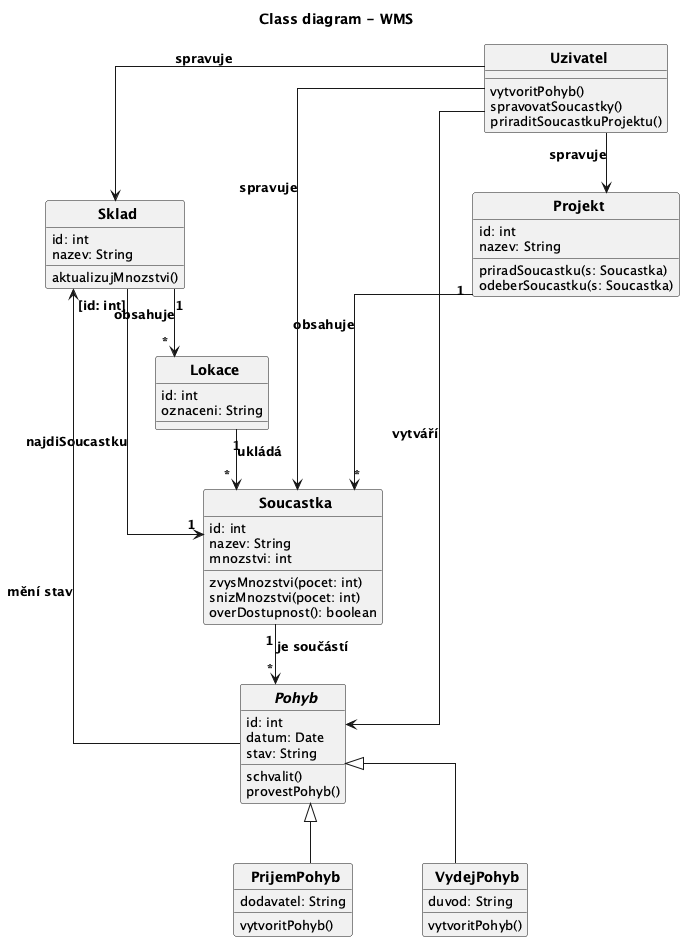
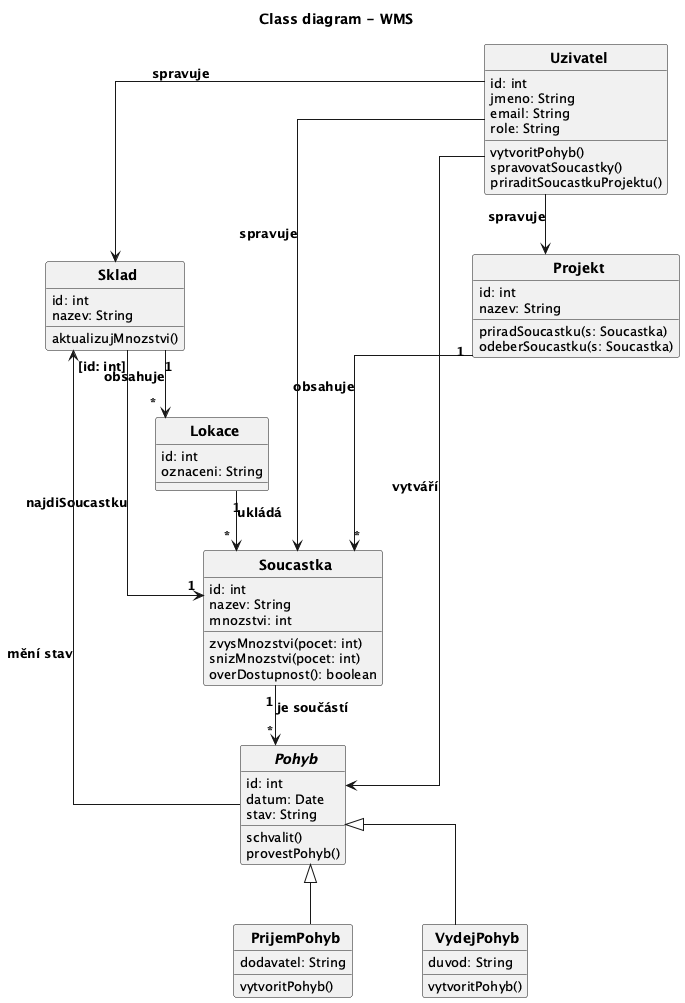
feat: pridani atributu do tridy Uzivatel

diff --git a/docs/chapters/datovy_model.tex b/docs/chapters/datovy_model.tex
@@ -44,7 +44,7 @@ mezi nimi.
     VydejPohyb   & duvod (dědí z Pohyb) \\
     Sklad        & id, nazev \\
     Lokace       & id, oznaceni \\
-    Uzivatel     & (správce systému, bez persistentních atributů) \\
+    Uzivatel     & id, jmeno, email, role \\
     \bottomrule
   \end{tabularx}
 \end{table}
